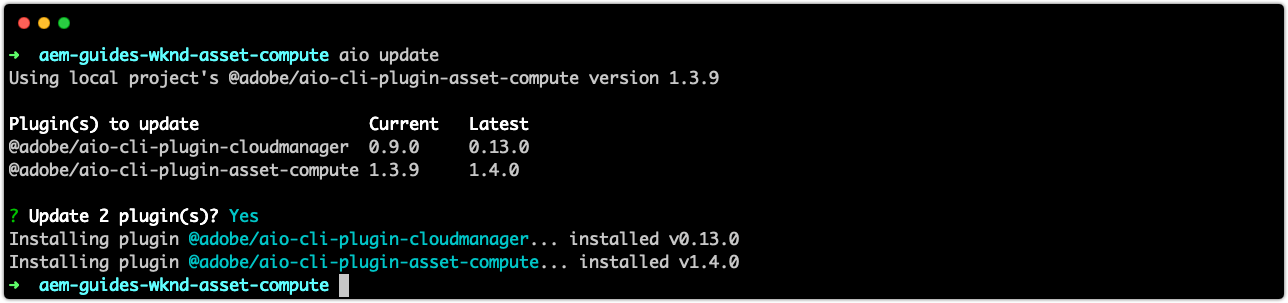
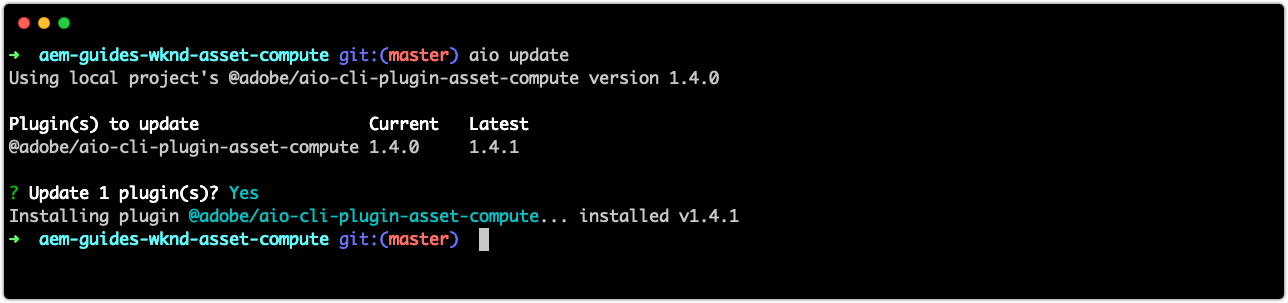
Updated troubleshooting instructions for debugger not existing on ctrl-c

diff --git a/help/cloud-service/asset-compute/test-debug/debug.md b/help/cloud-service/asset-compute/test-debug/debug.md
@@ -122,7 +122,7 @@ _Click-through of debugging an Asset Compute worker using wskdebug (No audio)_
 
 + __Error__: `Ctrl-C` on the command line does not terminate the debugger process (`npx adobe-asset-compute devtool`).
 + __Cause__: A bug  in `@adobe/aio-cli-plugin-asset-compute` 1.3.x, results in `Ctrl-C` not being recognized as a terminating command.
-+ __Resolution__: Update `@adobe/aio-cli-plugin-asset-compute` to version 1.4.0+
++ __Resolution__: Update `@adobe/aio-cli-plugin-asset-compute` to version 1.4.1+
 
     ```
     $ aio update
